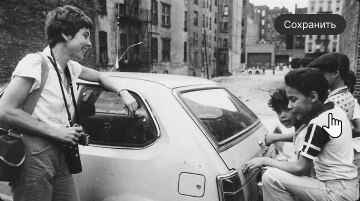
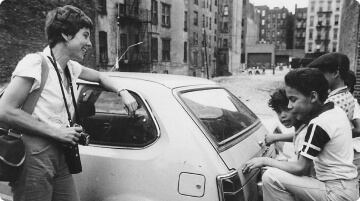
feat: add MoviesCardList & MoviesCard

diff --git a/src/utils/data.js b/src/utils/data.js
@@ -1,0 +1,101 @@
+import img1 from '../images/1.jpg';
+import img2 from '../images/2.jpg';
+import img3 from '../images/3.jpg';
+import img4 from '../images/4.jpg';
+import img5 from '../images/5.jpg';
+import img6 from '../images/6.jpg';
+import img7 from '../images/7.jpg';
+import img8 from '../images/8.jpg';
+import img9 from '../images/9.jpg';
+import img10 from '../images/10.jpg';
+import img11 from '../images/11.jpg';
+import img12 from '../images/12.jpg';
+
+const movies = [
+  {
+    _id: 1,
+    nameRU: '33 слова о дизайне',
+    img: img1,
+    duration: '1ч 17м',
+    isSaved: true,
+  },
+  {
+    _id: 2,
+    nameRU: 'Киноальманах «100 лет дизайна»',
+    img: img2,
+    duration: '1ч 17м',
+    isSaved: true,
+  },
+  {
+    _id: 3,
+    nameRU: 'В погоне за Бенкси',
+    img: img3,
+    duration: '1ч 17м',
+    isSaved: true,
+  },
+  {
+    _id: 4,
+    nameRU: 'Баския: Взрыв реальности',
+    img: img4,
+    duration: '1ч 17м',
+    isSaved: false,
+  },
+  {
+    _id: 5,
+    nameRU: 'Бег это свобода',
+    img: img5,
+    duration: '1ч 17м',
+    isSaved: false,
+  },
+  {
+    _id: 6,
+    nameRU: 'Книготорговцы',
+    img: img6,
+    duration: '1ч 17м',
+    isSaved: false,
+  },
+  {
+    _id: 7,
+    nameRU: 'Когда я думаю о Германии ночью',
+    img: img7,
+    duration: '1ч 17м',
+    isSaved: false,
+  },
+  {
+    _id: 8,
+    nameRU: 'Gimme Danger: История Игги и The Stooges',
+    img: img8,
+    duration: '1ч 17м',
+    isSaved: false,
+  },
+  {
+    _id: 9,
+    nameRU: 'Дженис: Маленькая девочка грустит',
+    img: img9,
+    duration: '1ч 17м',
+    isSaved: false,
+  },
+  {
+    _id: 10,
+    nameRU: 'Соберись перед прыжком',
+    img: img10,
+    duration: '1ч 17м',
+    isSaved: false,
+  },
+  {
+    _id: 11,
+    nameRU: 'Пи Джей Харви: A dog called money',
+    img: img11,
+    duration: '1ч 17м',
+    isSaved: false,
+  },
+  {
+    _id: 12,
+    nameRU: 'По волнам: Искусство звука в кино',
+    img: img12,
+    duration: '1ч 17м',
+    isSaved: false,
+  },
+];
+
+export default movies;

diff --git a/src/components/films/MoviesCard/MoviesCard.scss b/src/components/films/MoviesCard/MoviesCard.scss
@@ -1,0 +1,94 @@
+@import '../../../styles/abstract/constants.scss';
+@import '../../../styles/abstract/placeholders.scss';
+@import '../../../styles/abstract/mixins.scss';
+
+.card {
+  width: 100%;
+  position: relative;
+  display: flex;
+  flex-direction: column;
+
+  &:hover {
+    .card__button_type_saved {
+      opacity: 1;
+      @include button;
+    }
+  }
+}
+
+.card__button {
+  position: absolute;
+  top: 1.4rem;
+  right: 1.4rem;
+  border: none;
+  border-radius: 3rem;
+  cursor: pointer;
+
+  &_type_saved {
+    width: 7.2rem;
+    height: 2.1rem;
+    color: $color-light-xl;
+    font-size: 1rem;
+    font-weight: 400;
+    line-height: 0.9;
+    background-color: $color-dark-xs;
+    opacity: 0;
+    @extend %transition-all;
+  }
+
+  &_type_unsaved {
+    width: 2.1rem;
+    height: 2.1rem;
+    background-image: url(../../../images/icon/save.svg);
+    background-size: cover;
+    background-color: transparent;
+  }
+}
+
+.card__image {
+  border-radius: 0.6rem;
+}
+
+.card__info {
+  padding: 1.4rem 1.4rem 0;
+  display: flex;
+  justify-content: space-between;
+
+  @include media-small {
+    padding: 2.6rem 0 0;
+  }
+
+  @include media-mobile {
+    padding: 1.6rem 0 0;
+  }
+}
+
+.card__title {
+  margin: 0;
+  max-width: 25rem;
+  font-size: 1.3rem;
+  font-weight: 500;
+  line-height: normal;
+  text-overflow: ellipsis;
+  white-space: nowrap;
+  overflow: hidden;
+
+  @include media-mobile {
+    max-width: 24rem;
+    font-size: 1.2rem;
+  }
+}
+
+.card__duration {
+  width: 5.2rem;
+  min-height: 1.8rem;
+  display: flex;
+  justify-content: center;
+  align-items: center;
+  border-radius: 0.3rem;
+  color: $color-light-m;
+  font-size: 1.1rem;
+  font-weight: 400;
+  line-height: 0.9;
+  background-color: $color-grey;
+}

diff --git a/src/components/films/MoviesCardList/MoviesCardList.scss b/src/components/films/MoviesCardList/MoviesCardList.scss
@@ -1,0 +1,62 @@
+@import '../../../styles/abstract/constants.scss';
+@import '../../../styles/abstract/placeholders.scss';
+@import '../../../styles/abstract/mixins.scss';
+
+.movies {
+  padding: 7rem 0 8rem;
+
+  @include media-mobile {
+    padding: 4rem 0 8rem;
+  }
+}
+
+.movies__list {
+  @include list;
+  display: grid;
+  grid-template-columns: repeat(auto-fit, 36rem);
+  gap: 5.7rem 3rem;
+  justify-content: center;
+
+  @include media-small {
+    grid-template-columns: repeat(auto-fit, 33.9rem);
+    gap: 4.5rem 3rem;
+
+    > :nth-child(n + 9) {
+      display: none;
+    }
+  }
+
+  @include media-mobile {
+    grid-template-columns: repeat(auto-fit, 30rem);
+    gap: 3.7rem;
+
+    > :nth-child(n + 6) {
+      display: none;
+    }
+  }
+}
+
+.movies__more {
+  padding: 0;
+  margin: 7.7rem auto 0;
+  width: 32rem;
+  height: 3.6rem;
+  display: block;
+  border-radius: 6px;
+  border: 1px solid $color-light-s;
+  background-color: transparent;
+  color: $color-light-xl;
+  font-size: 1.2rem;
+  font-weight: 500;
+  line-height: normal;
+  cursor: pointer;
+  @include button;
+
+  @include media-small {
+    margin: 5.9rem auto 0;
+  }
+
+  @include media-mobile {
+    width: 24rem;
+  }
+}

diff --git a/src/components/films/MoviesCard/MoviesCard.js b/src/components/films/MoviesCard/MoviesCard.js
@@ -1,0 +1,33 @@
+import './MoviesCard.scss';
+
+function MoviesCard({ card }) {
+  return (
+    <li className="card">
+
+      {!card.isSaved ? (
+        <button
+          className="card__button card__button_type_saved"
+          type="button"
+        >Сохранить</button>
+      ) : (
+        <button
+          className="card__button card__button_type_unsaved"
+          type="button"
+        ></button>
+      )}
+
+      <img
+        className="card__image"
+        src={card.img}
+        alt={`Обложка фильма ${card.nameRU}`}
+      />
+
+      <div className="card__info">
+        <h2 className="card__title">{card.nameRU}</h2>
+        <span className="card__duration">{card.duration}</span>
+      </div>
+    </li>
+  );
+}
+
+export default MoviesCard;

diff --git a/src/components/films/MoviesCardList/MoviesCardList.js b/src/components/films/MoviesCardList/MoviesCardList.js
@@ -1,0 +1,26 @@
+import './MoviesCardList.scss';
+import MoviesCard from '../MoviesCard/MoviesCard';
+import { AppContext } from '../../../contexts/AppContext';
+import { useContext } from 'react';
+
+function MoviesCardList() {
+  const app = useContext(AppContext);
+
+  return (
+    <section className="movies" aria-label="Фильмы">
+      <div className="wrapper">
+        <ul className="movies__list">
+          {app.movies.map((movie) => (
+            <MoviesCard
+              key={movie._id}
+              card={movie}
+            />
+          ))}
+        </ul>
+        <button className="movies__more" type="button">Ещё</button>
+      </div>
+    </section>
+  );
+}
+
+export default MoviesCardList;

diff --git a/src/components/App/App.js b/src/components/App/App.js
@@ -10,6 +10,7 @@ import Login from '../user/Login/Login';
 import Register from '../user/Register/Register';
 import NotFound from '../NotFound/NotFound';
 import Header from '../common/Header/Header';
+import movies from '../../utils/data';
 
 function App() {
   const [loggedIn, setLoggedIn] = useState(false);
@@ -46,7 +47,7 @@ function App() {
   }
 
   return (
-    <AppContext.Provider value={{loggedIn, menuOpen, isEdit, userName, userMail}}>
+    <AppContext.Provider value={{loggedIn, menuOpen, isEdit, userName, userMail, movies}}>
       <Routes>
         <Route path="/" element={<Main onBurgerClick={handleBurgerClick} />} />
         <Route path="/movies" element={<Movies />} />

diff --git a/src/components/films/Movies/Movies.js b/src/components/films/Movies/Movies.js
@@ -2,6 +2,7 @@ import './Movies.scss';
 import Header from '../../common/Header/Header';
 import Footer from '../../common/Footer/Footer';
 import SearchForm from '../SearchForm/SearchForm';
+import MoviesCardList from '../MoviesCardList/MoviesCardList';
 
 function Movies({onBurgerClick}) {
   return (
@@ -9,6 +10,7 @@ function Movies({onBurgerClick}) {
       <Header onBurgerClick={onBurgerClick} />
       <main>
         <SearchForm />
+        <MoviesCardList />
       </main>
       <Footer />
     </>

diff --git a/src/components/films/FilterCheckbox/FilterCheckbox.js b/src/components/films/FilterCheckbox/FilterCheckbox.js
@@ -3,7 +3,12 @@ import './FilterCheckbox.scss';
 function FilterCheckbox() {
   return (
     <label className="filter">
-      <input type="checkbox" className="filter__input" value="off" />
+      <input
+        className="filter__input"
+        type="checkbox"
+        form="search"
+        value="off"
+      />
       <span className="filter__input-new"></span>
       <span className="filter__title">Короткометражки</span>
     </label>

diff --git a/src/components/films/SearchForm/SearchForm.js b/src/components/films/SearchForm/SearchForm.js
@@ -6,9 +6,13 @@ function SearchForm() {
     <section className="search">
       <div className="wrapper">
         <h1 className="sr-only">Фильмы</h1>
-        <form className="search__form">
+        <form
+          className="search__form"
+          id="search"
+        >
           <input
             className="search__input"
+            name="search"
             type="text"
             placeholder="Фильм"
             required

diff --git a/src/styles/base/base.scss b/src/styles/base/base.scss
@@ -26,6 +26,7 @@ html {
   -ms-text-size-adjust: 100%;
   -moz-text-size-adjust: 100%;
   text-rendering: optimizeLegibility;
+  -webkit-tap-highlight-color: transparent;
   background-color: $color-dark-l;
 
   &_lock {
